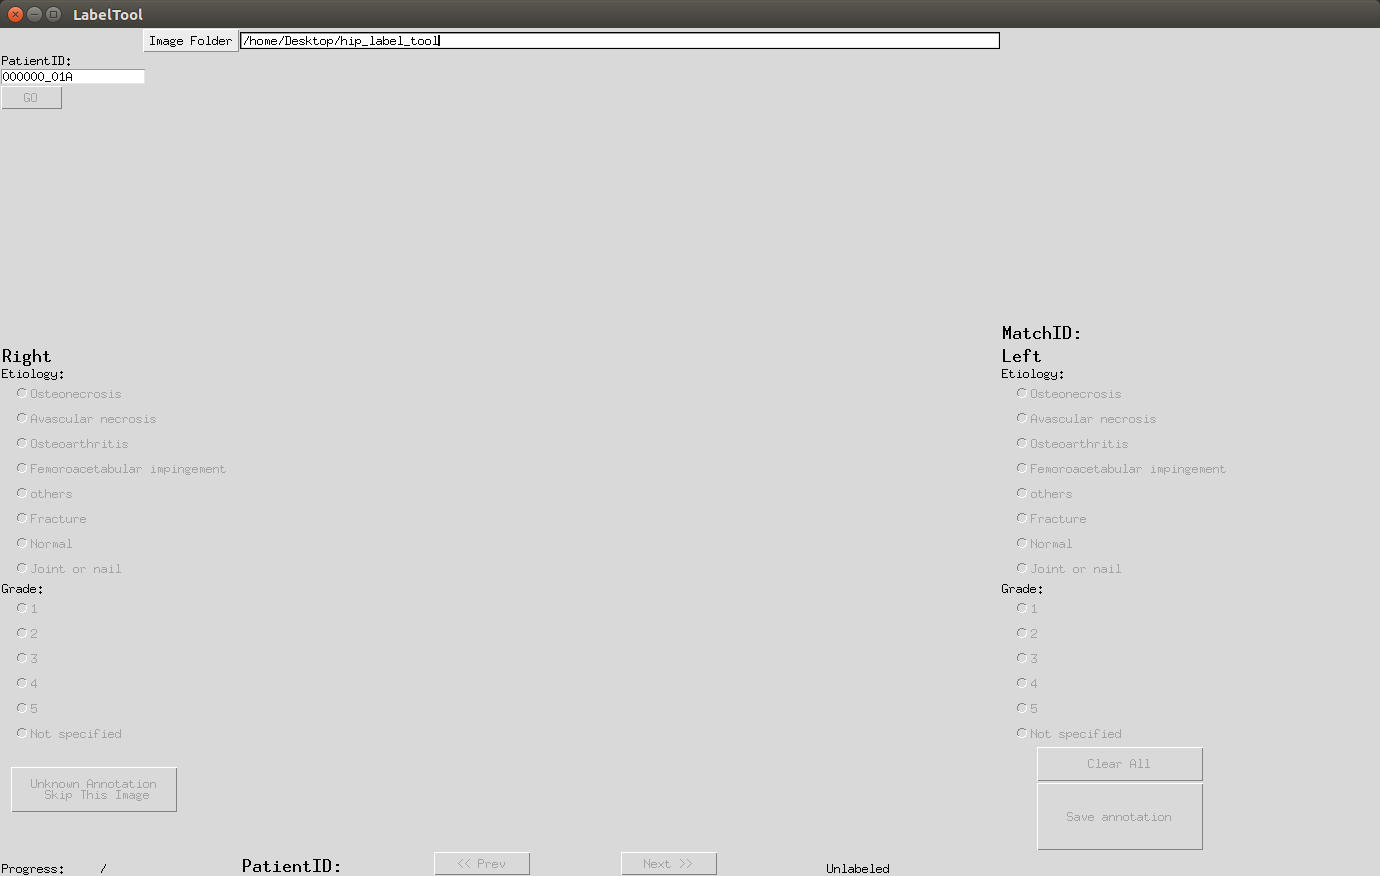
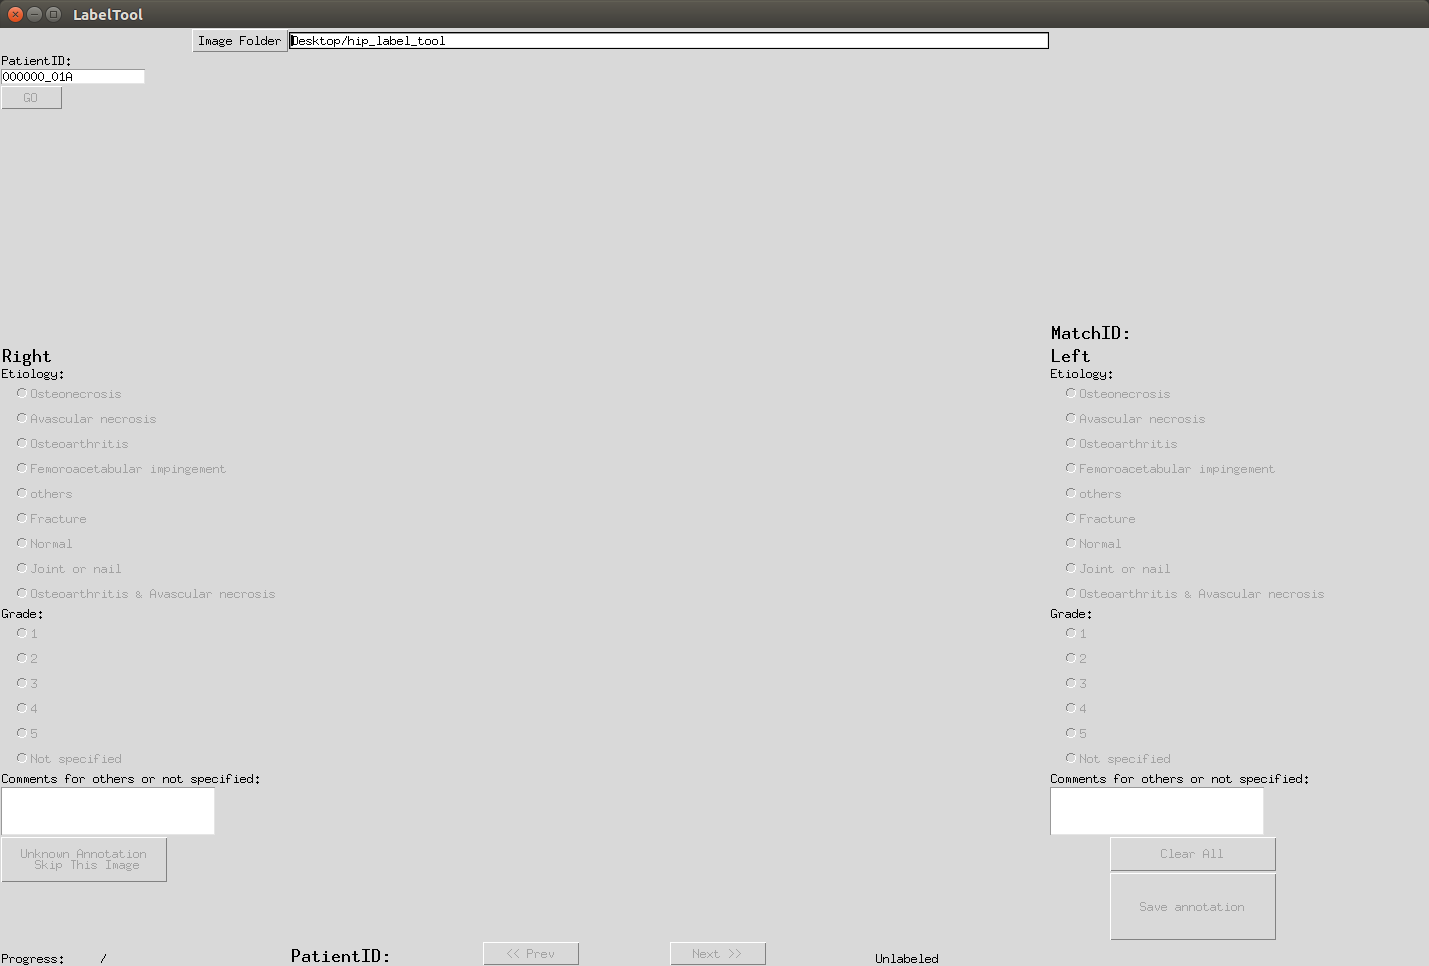
label.py v2

diff --git a/label.py b/label.py
@@ -126,6 +126,11 @@ class LabelTool():
         self.GotoPanel.grid(row = 1, column=0, rowspan = 3, sticky = NW)
         self.gotoLb = Label(self.GotoPanel, text = 'PatientID:')
         self.gotoLb.pack(anchor=NW)
+        
+        ##[tkinter class]
+        # If you want to tie two or more widgets together (ie: display the exact same data), using a StringVar is the right choice.
+        # Most uses of an entry widget don't have that requirement, so you don't need to use a StringVar. 
+        # To remove complexity, just use myEntry.get() instead. -- cited Bryan Oakley's opinion.
         self.gotoText = StringVar(self.GotoPanel)
         self.gotoText.set('000000_01A') 
         vcmd = (self.GotoPanel.register(self.validate), '%d', '%i', '%P', '%s', '%S', '%v', '%V', '%W')
@@ -241,9 +246,6 @@ class LabelTool():
         self.etiologyBtn_R_8.config(state=NORMAL)
         self.etiologyBtn_R_9.config(state=NORMAL)
     
-    def test(self):
-        print('##########')
-
     def setGradeBtn_R(self):
         self.gradeBtn_R_1.config(state=NORMAL)
         self.gradeBtn_R_2.config(state=NORMAL)
@@ -280,6 +282,10 @@ class LabelTool():
         self.setEtiologyBtn_R()
         self.setGradeBtn_L()
         self.setGradeBtn_R()
+    
+    def reCommentText(self):
+        self.commentText_L.delete('1.0', END)
+        self.commentText_R.delete('1.0', END)
         self.commentText_L.config(state=NORMAL)
         self.commentText_R.config(state=NORMAL)
 
@@ -330,6 +336,43 @@ class LabelTool():
         self.prevBtn.config(state=DISABLED)
         self.nextBtn.config(state=DISABLED)
 
+    # [Pop-up window]
+    def genPopupWindow(self, labeltext='skip'):
+        self.popup = Toplevel(self.mainPanel)
+        self.popup.title("Warning")
+        if labeltext == 'skip':
+            text = 'Please write your comments before skipping.'
+        else:
+            text = 'Please write your comments if the etiology is others.'
+
+        self.popupLb = Label(self.popup, text=text, fg="black")
+        self.popupLb.config(font=("Helvetica", 12))
+        self.popupLb.pack(anchor=NW)
+        self.popupBtn = Button(self.popup, text="OK", height=2, width=5, command=self.dePopup)
+        self.popupBtn.pack(anchor=S)
+        self.centerWindow(self.popup)
+
+    def centerWindow(self, toplevel):
+        windowWidth   = toplevel.winfo_reqwidth()
+        windowHeight  = toplevel.winfo_reqheight()
+        positionRight = int(toplevel.winfo_screenwidth()/2 - windowWidth/2)
+        positionDown  = int(toplevel.winfo_screenheight()/2 - windowHeight/2)
+        
+        toplevel.geometry("+{}+{}".format(positionRight, positionDown))
+    
+    def dePopup(self):
+        self.popup.destroy()
+        self.popupLb.destroy()
+        self.popupBtn.destroy()
+
+    def checkComment(self):
+        comment_l = self.commentText_L.get("1.0",'end-1c')
+        comment_r = self.commentText_R.get("1.0",'end-1c')
+        if (len(comment_r) == 0 and len(comment_l) == 0) or (comment_r == 'None' and comment_l == 'None'):
+            return False
+        else:
+            return True
+
     # [Load Image]
     def selectSrcDir(self):
         path = filedialog.askdirectory(title="Select image source folder", initialdir=self.svSourcePath.get())
@@ -347,7 +390,7 @@ class LabelTool():
         fileDir = self.svSourcePath.get()
 
         # set up output label diretory
-        self.outDir = fileDir + '/' + NAME + '_labels'
+        self.outDir = fileDir + '/' + NAME + '_labels_new'
         if not os.path.exists(self.outDir):
             os.mkdir(self.outDir)
         
@@ -385,6 +428,7 @@ class LabelTool():
         
         self.initStateGUI()
         self.reRadioBtn()
+        self.reCommentText()
         self.enBtn()
     
     def loadImage(self):
@@ -488,7 +532,7 @@ class LabelTool():
             str1 = '/'
             return (str1.join(li)) 
         
-        LabelFile = listToString(imagepath_list) + '/' + NAME + '_labels/' + image_id + '.json'
+        LabelFile = listToString(imagepath_list) + '/' + NAME + '_labels_new/' + image_id + '.json'
         if os.path.isfile(LabelFile):
             with open(LabelFile, 'r') as f:
                 data = json.load(f)
@@ -496,6 +540,8 @@ class LabelTool():
                 etiology_R = data[self.imageID]['etiology_r']
                 grades_L = data[self.imageID]['grades_l']
                 grades_R = data[self.imageID]['grades_r']
+                comment_L = data[self.imageID]['comment_l']
+                comment_R = data[self.imageID]['comment_r']
 
                 if (etiology_L == 'None') or (etiology_R == 'None') \
                     or (grades_L == 'None') or (grades_R == 'None'):
@@ -507,12 +553,15 @@ class LabelTool():
                 self.etiology_R.set(etiology_R)
                 self.grades_L.set(grades_L)
                 self.grades_R.set(grades_R)
+                self.commentText_L.insert(END, comment_L)
+                self.commentText_R.insert(END, comment_R)
         else:
             self.statusLb.config(text='Unlabeled')
 
     def prevImage(self):
         if self.cur > 1:
             self.reRadioBtn()
+            self.reCommentText()
             self.cur -= 1
             self.loadImage()
             self.loadLabel()
@@ -520,6 +569,7 @@ class LabelTool():
     def nextImage(self):
         if self.cur < len(self.imgPathList):
             self.reRadioBtn()
+            self.reCommentText()
             self.cur += 1
             self.loadImage()
             self.loadLabel()
@@ -538,19 +588,38 @@ class LabelTool():
             return
         
     def confirmImage(self):
-        if (self.grades_L.get() == 'None') or (self.grades_R.get() == 'None') \
-            or (self.etiology_L.get() == 'None') or (self.etiology_R.get() == 'None'):
+        grade_l = self.grades_L.get()
+        grade_r = self.grades_R.get()
+        eti_l = self.etiology_L.get()
+        eti_r = self.etiology_R.get()
+
+        # incompletely label, (OA, Avas necro, OA+Avas necro with not specified grade)
+        if (grade_l == 'None') or (grade_r == 'None') or \
+            (eti_l == 'None') or (eti_r == 'None') or \
+            (eti_l == '1' and grade_l == '5') or (eti_r == '1' and grade_r == '5') or \
+            (eti_l == '2' and grade_l == '5') or (eti_r == '2' and grade_r == '5') or \
+            (eti_l == '8' and grade_l == '5') or (eti_r == '8' and grade_r == '5'):
+            return
+        
+        # others, no comment
+        if (eti_l == '4' or eti_r == '4') and (not self.checkComment()):
+            self.genPopupWindow(labeltext='others')
             return
         
         self.updateImageDic()
         self.reRadioBtn()
+        self.reCommentText()
         self.loadLabel()
-
+    
     def skipImage(self):
         self.reRadioBtn()
-        self.updateImageDic()
-        self.loadLabel()
-
+        if not self.checkComment():       
+            self.genPopupWindow()
+        else:
+            self.updateImageDic()
+            self.reCommentText()
+            self.loadLabel()
+    
     def updateImageDic(self):
         img_dict = {}
         data = {}
@@ -562,6 +631,20 @@ class LabelTool():
         data['grades_r'] = self.grades_R.get()
         data['etiology_l'] = self.etiology_L.get()
         data['grades_l'] = self.grades_L.get()
+
+        comment_l = self.commentText_L.get("1.0",'end-1c')
+        comment_r = self.commentText_R.get("1.0",'end-1c')
+        
+        if len(comment_r) == 0:
+            data['comment_r'] = 'None'
+        else:
+            data['comment_r'] = comment_r
+        
+        if len(comment_l) == 0:
+            data['comment_l'] = 'None'
+        else:
+            data['comment_l'] = comment_l
+        
         data['time'] = time.strftime("%b/%d/%X", time.localtime()) 
 
         img_dict[self.imageID] = data
@@ -587,7 +670,7 @@ class LabelTool():
         ExitBtn.pack()
 
 def jsontocsv():
-    json_list = glob.glob(os.path.join(os.getcwd(), NAME, NAME+'_labels','*.json'))
+    json_list = glob.glob(os.path.join(os.getcwd(), NAME, NAME+'_labels_new','*.json'))
     json_cnt  = len(json_list) 
 
     lookupTable_eti = {'None':'Unknown Annotation', '0':'Osteonecrosis', '1':'Avascular necrosis', '2':'Osteoarthritis', \
@@ -595,27 +678,29 @@ def jsontocsv():
                         '8':'Osteoarthritis & Avascular necrosis'}
     lookupTable_grade = {'None':'Unknown Annotation', '0':'1', '1':'2', '2':'3', '3':'4', '4':'5', '5':'Not specified'}
     
-    outputDF = pd.DataFrame(columns=['PatientID','MatchID','Etiology_right','Grades_right','Etiology_left','Grades_left','time', 'file_path'])
+    outputDF = pd.DataFrame(columns=['PatientID','MatchID','Etiology_right','Grades_right','Comment_right','Etiology_left','Grades_left','Commment_left','time', 'file_path'])
 
     for i in range(json_cnt):
         df = pd.read_json(json_list[i], orient='values')
         image_id = json_list[i].split('/')[-1][:-5]
         
-        img_id   = df[image_id]['imageid']
-        match_id = df[image_id]['matchid']
-        eti_r    = df[image_id]['etiology_r']
-        grades_r = df[image_id]['grades_r']
-        eti_l    = df[image_id]['etiology_l']
-        grades_l = df[image_id]['grades_l']
-        time     = df[image_id]['time']
-        path     = df[image_id]['path']
+        img_id    = df[image_id]['imageid']
+        match_id  = df[image_id]['matchid']
+        eti_r     = df[image_id]['etiology_r']
+        grades_r  = df[image_id]['grades_r']
+        comment_r = df[image_id]['comment_r']
+        eti_l     = df[image_id]['etiology_l']
+        grades_l  = df[image_id]['grades_l']
+        comment_l = df[image_id]['comment_l']
+        time      = df[image_id]['time']
+        path      = df[image_id]['path']
        
-        eti_r    = lookupTable_eti[eti_r]
-        grades_r = lookupTable_grade[grades_r]
-        eti_l    = lookupTable_eti[eti_l]
-        grades_l = lookupTable_grade[grades_l]
+        eti_r     = lookupTable_eti[eti_r]
+        grades_r  = lookupTable_grade[grades_r]
+        eti_l     = lookupTable_eti[eti_l]
+        grades_l  = lookupTable_grade[grades_l]
 
-        new_row = [img_id, match_id, eti_r, grades_r, eti_l, grades_l, time, path]
+        new_row = [img_id, match_id, eti_r, grades_r, comment_r, eti_l, grades_l, comment_l, time, path]
         
         outputDF = outputDF.append(pd.DataFrame([new_row], columns = outputDF.columns))
 

diff --git a/README.md b/README.md
@@ -10,8 +10,8 @@ hip_label_tool
 |  
 ├──label.py   
 |  
-├──DrLiao
-|    ├──HumanOA_Annotation_masterTable_0225_2020.xls
+├──DrLiao (your need to prepare this folder)
+|    ├──HumanOA_Annotation_masterTable_Sort_0330_2020.xls
 |    ├──original
 |    ├──crop
 |    └──DrLiao_labels (automatically generated after labeling)
@@ -33,11 +33,11 @@ Please refer to installation.md
 Setting
 -----
 1. ### **Data and directory:**
-   * Delete `DrLiao` symbolic link and add real `DrLiao` folder.
+   * Delete `DrLiao` symbolic link and replace with your folder.
    * Make sure you have the same structure as above-mentioned directory.
    * If you are `DrX`, for example, rather than `DrLiao`. Please have:
-        1. Change `DrLiao` folder name into `DrX`.
-        2. Find all `DrLiao` in `label.py` and replace every of them with `DrX`. You should change **7** places.
+        1. Change your folder name into `DrX`.
+        2. Change `NAME = 'DrLiao'` in `label.py` (line 14) into `NAME = 'DrX'` and save.
 
 2. Run
     ```console
@@ -56,7 +56,7 @@ Usage
     ```console
     foo@bar:~$ python3 label.py
     ```
-2. Click `Image Folder` button and choose `DrLiao`folder.
+2. Click `Image Folder` button and choose `DrLiao` folder.
 
 3. Start labeling and feel free to leave the GUI anytime.
 
